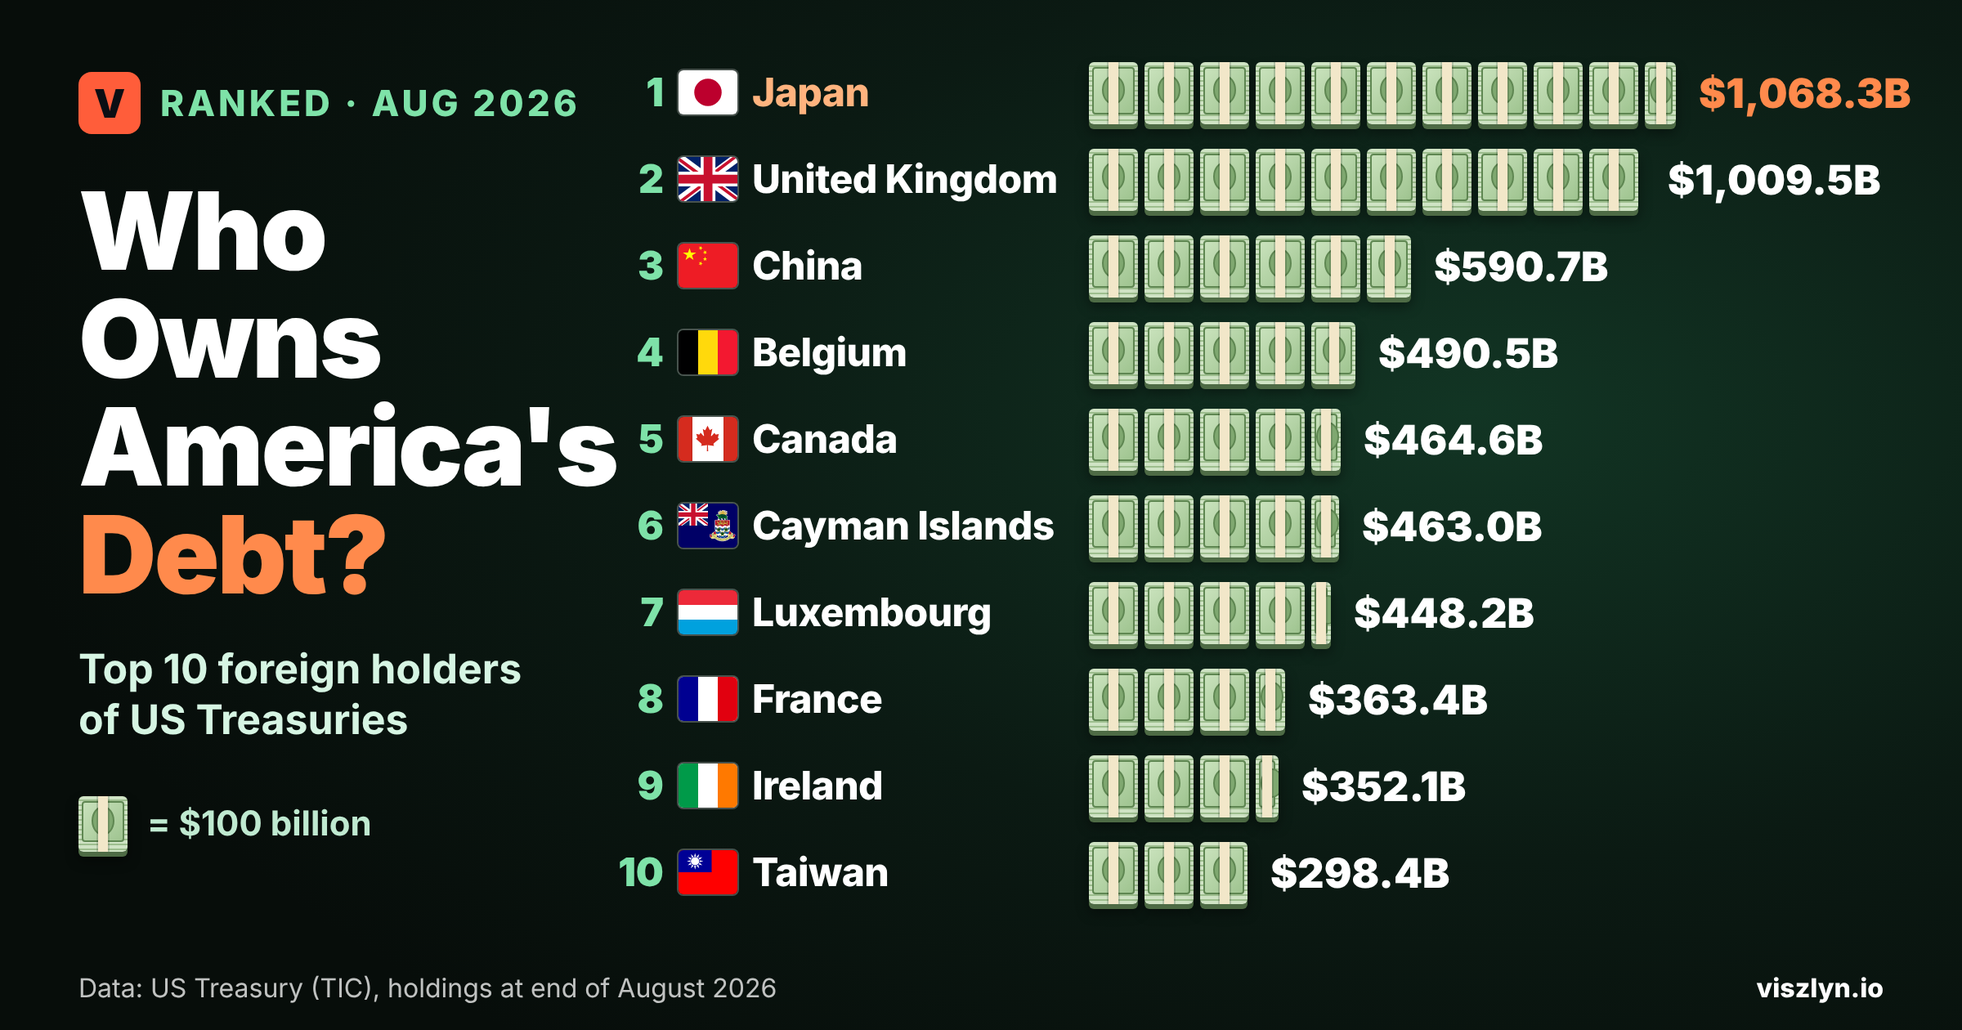
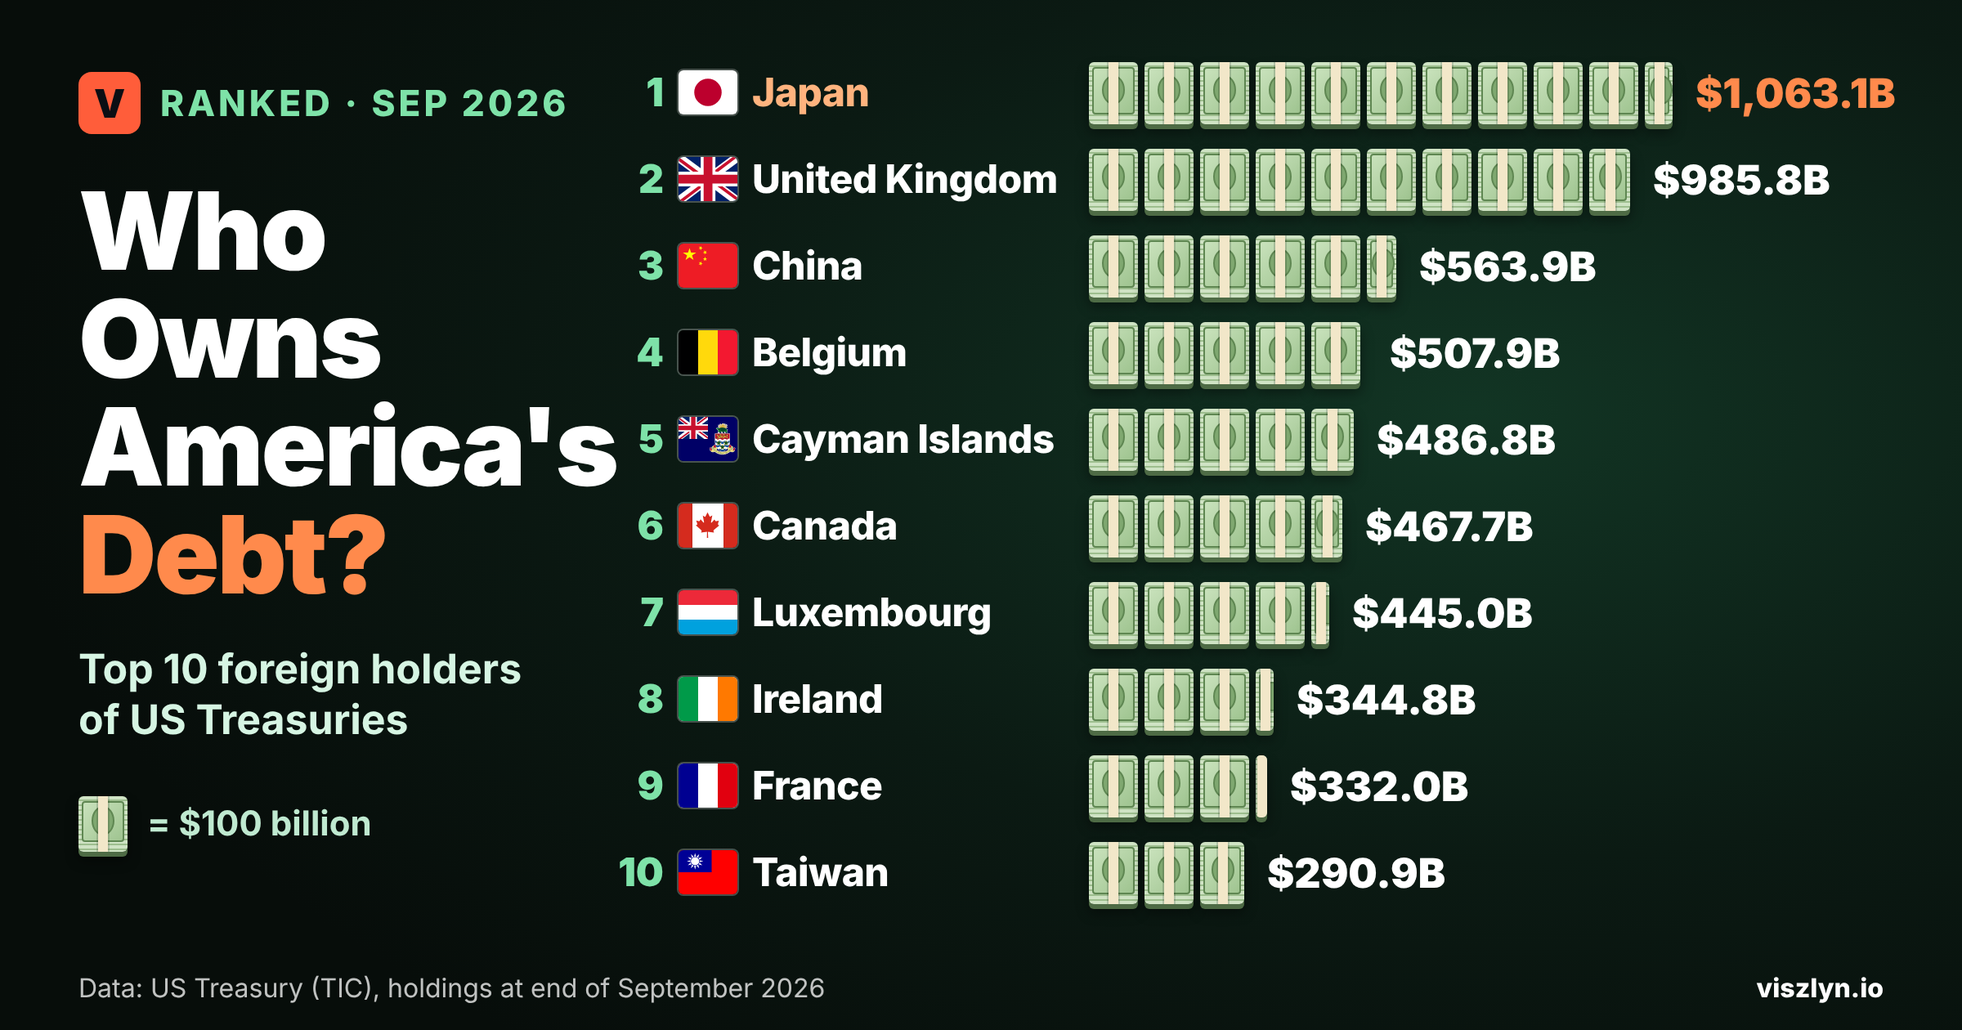
Update foreign holders of US Treasuries to September 2026 TIC data
Claude-Session: https://claude.ai/code/session_01Lx7Mnbsr2j6Zre36XCS9Kp

diff --git a/src/data/rankings/foreign-holders-us-treasuries-2026.ts b/src/data/rankings/foreign-holders-us-treasuries-2026.ts
@@ -1,126 +1,126 @@
 import { RankingArticle } from "./types";
 
-const SRC = "US Treasury, TIC Major Foreign Holders of Treasury Securities, August 2026";
+const SRC = "US Treasury, TIC Major Foreign Holders of Treasury Securities, September 2026";
 
 export const foreignHoldersUsTreasuries2026: RankingArticle = {
   slug: "foreign-holders-us-treasuries-2026",
 
   metaTitle: "Who Owns US Debt? The 10 Biggest Foreign Holders of Treasuries | Viszlyn",
   metaDescription:
-    "Japan holds $1,068.3 billion of US Treasuries, the UK $1,009.5 billion and China $590.7 billion. The 10 biggest foreign holders of US debt, ranked with Treasury data for August 2026.",
+    "Japan holds $1,063.1 billion of US Treasuries, the UK $985.8 billion and China $563.9 billion. The 10 biggest foreign holders of US debt, ranked with Treasury data for September 2026.",
   ogTitle: "Who Owns America's Debt? The 10 Biggest Foreign Holders, Ranked",
   ogDescription:
-    "Japan is still #1, the UK has passed $1 trillion, and China has fallen to $590.7 billion. The top 10 foreign holders of US Treasuries, August 2026.",
+    "Japan is still No. 1, the UK is closing in, and China has fallen to $563.9 billion. The top 10 foreign holders of US Treasuries, September 2026.",
   twitterTitle: "Who Owns America's Debt? Top 10 Foreign Holders",
   twitterDescription:
-    "Japan $1,068.3B, UK $1,009.5B, China $590.7B. The 10 biggest foreign holders of US Treasuries (US Treasury, August 2026).",
+    "Japan $1,063.1B, UK $985.8B, China $563.9B. The 10 biggest foreign holders of US Treasuries (US Treasury, September 2026).",
 
   eyebrow: "Money",
   title: "Who Owns America's Debt? The 10 Biggest Foreign Holders of US Treasuries",
-  dek: "Foreign investors held $9,331.7 billion of US Treasury securities at the end of August 2026. Japan is still the biggest holder, the United Kingdom is close behind, and China's holdings have fallen to $590.7 billion.",
+  dek: "Foreign investors held $9,241.2 billion of US Treasury securities at the end of September 2026. Japan is still the biggest holder, the United Kingdom is close behind, and China's holdings have fallen to $563.9 billion.",
   publishedDate: "November 13, 2026",
-  lastUpdated: "November 13, 2026",
-  dataPeriod: "End of August 2026, compared with August 2025 (US Treasury TIC data, released October 16, 2026)",
+  lastUpdated: "November 18, 2026",
+  dataPeriod: "End of September 2026, compared with September 2025 (US Treasury TIC data, released November 18, 2026)",
   heroImage: {
     src: "/heroes/foreign-holders-us-treasuries-2026.png",
     ogSrc: "/heroes/foreign-holders-us-treasuries-2026-og.png",
-    alt: "Stacks of $100 bills sized by each country's holdings of US Treasury securities in August 2026: Japan $1,068.3 billion, United Kingdom $1,009.5 billion, China $590.7 billion, then Belgium, Canada, Cayman Islands, Luxembourg, France, Ireland and Taiwan. Source: US Treasury.",
+    alt: "Stacks of $100 bills sized by each country's holdings of US Treasury securities in September 2026: Japan $1,063.1 billion, United Kingdom $985.8 billion, China $563.9 billion, then Belgium, Cayman Islands, Canada, Luxembourg, Ireland, France and Taiwan. Source: US Treasury.",
   },
 
   quickAnswer:
-    "Japan is the biggest foreign holder of US government debt, with $1,068.3 billion of Treasury securities at the end of August 2026. The United Kingdom is second with $1,009.5 billion, and China is third with $590.7 billion. Over the past year, Japan's holdings fell $115.6 billion and China's fell $109.0 billion, while the UK's rose $108.2 billion. Together, foreign investors held $9,331.7 billion of US Treasuries.",
+    "Japan is the biggest foreign holder of US government debt, with $1,063.1 billion of Treasury securities at the end of September 2026. The United Kingdom is second with $985.8 billion, and China is third with $563.9 billion. Over the past year, China's holdings fell $135.3 billion and Japan's fell $126.2 billion, while the UK's rose $123.3 billion. Together, foreign investors held $9,241.2 billion of US Treasuries.",
   introParagraph:
-    "When the US government borrows, it sells Treasury securities: bills, notes and bonds. Most are owned by Americans, including the Federal Reserve, but a large share is held abroad. This ranking uses the US Treasury's own count of foreign holdings, published monthly as part of its Treasury International Capital (TIC) data. The latest figures, released on October 16, 2026, show holdings at the end of August 2026. We compare each country with August 2025 to show who has been buying and who has been pulling back.",
+    "When the US government borrows, it sells Treasury securities: bills, notes and bonds. Most are owned by Americans, including the Federal Reserve, but a large share is held abroad. This ranking uses the US Treasury's own count of foreign holdings, published monthly as part of its Treasury International Capital (TIC) data. The latest figures, released on November 18, 2026, show holdings at the end of September 2026. We compare each country with September 2025 to show who has been buying and who has been pulling back.",
   calloutBox: {
     label: "Why Belgium, Luxembourg and the Cayman Islands rank so high",
     body: "The TIC data records Treasuries by the country where they are held, which is often where a bank or custodian keeps them, not necessarily where the owner lives. The Treasury cautions that securities held in overseas custody accounts may not be attributed to their actual owners. Financial centres such as the UK, Belgium, Luxembourg, the Cayman Islands and Ireland hold Treasuries on behalf of investors from many other countries, so their totals do not only reflect their own governments or residents.",
   },
 
-  chartTitle: "Holdings of US Treasury securities, end of August 2026 ($ billions)",
+  chartTitle: "Holdings of US Treasury securities, end of September 2026 ($ billions)",
   chartSource: SRC,
   chartTapNote: "Tap any country to jump to its full breakdown below.",
-  entryValueLabel: "US Treasuries held (Aug 2026):",
-  comparisonLabel: "Aug 2025",
+  entryValueLabel: "US Treasuries held (Sep 2026):",
+  comparisonLabel: "Sep 2025",
   chartItems: [
-    { rank: 1, name: "Japan", value: "$1,068.3B", raw: 1068.3, prevRank: 1 },
-    { rank: 2, name: "United Kingdom", value: "$1,009.5B", raw: 1009.5, prevRank: 2 },
-    { rank: 3, name: "China", value: "$590.7B", raw: 590.7, prevRank: 3 },
-    { rank: 4, name: "Belgium", value: "$490.5B", raw: 490.5, prevRank: 4 },
-    { rank: 5, name: "Canada", value: "$464.6B", raw: 464.6, prevRank: 5 },
-    { rank: 6, name: "Cayman Islands", value: "$463.0B", raw: 463.0, prevRank: 7 },
-    { rank: 7, name: "Luxembourg", value: "$448.2B", raw: 448.2, prevRank: 6 },
-    { rank: 8, name: "France", value: "$363.4B", raw: 363.4, prevRank: 8 },
-    { rank: 9, name: "Ireland", value: "$352.1B", raw: 352.1, prevRank: 9 },
-    { rank: 10, name: "Taiwan", value: "$298.4B", raw: 298.4, prevRank: 10 },
+    { rank: 1, name: "Japan", value: "$1,063.1B", raw: 1063.1, prevRank: 1 },
+    { rank: 2, name: "United Kingdom", value: "$985.8B", raw: 985.8, prevRank: 2 },
+    { rank: 3, name: "China", value: "$563.9B", raw: 563.9, prevRank: 3 },
+    { rank: 4, name: "Belgium", value: "$507.9B", raw: 507.9, prevRank: 5 },
+    { rank: 5, name: "Cayman Islands", value: "$486.8B", raw: 486.8, prevRank: 6 },
+    { rank: 6, name: "Canada", value: "$467.7B", raw: 467.7, prevRank: 4 },
+    { rank: 7, name: "Luxembourg", value: "$445.0B", raw: 445.0, prevRank: 7 },
+    { rank: 8, name: "Ireland", value: "$344.8B", raw: 344.8, prevRank: 9 },
+    { rank: 9, name: "France", value: "$332.0B", raw: 332.0, prevRank: 8 },
+    { rank: 10, name: "Taiwan", value: "$290.9B", raw: 290.9, prevRank: 10 },
   ],
 
   detailedEntries: [
     {
       rank: 10,
       name: "Taiwan",
-      earnings: "$298.4 billion",
+      earnings: "$290.9 billion",
       category: "Asia-Pacific",
-      blurb: "Taiwan's holdings fell $15.0 billion (4.79%) from $313.4 billion in August 2025, but it kept 10th place.",
-      standoutFact: "Taiwan holds 3.2% of all foreign-held Treasuries.",
+      blurb: "Taiwan's holdings fell $21.6 billion (6.91%) from $312.5 billion in September 2025, but it kept 10th place.",
+      standoutFact: "Taiwan is just $1.9 billion ahead of Switzerland ($289.0 billion) in 11th place.",
       sourceTag: SRC,
       wikipediaUrl: "https://en.wikipedia.org/wiki/Taiwan",
     },
     {
       rank: 9,
-      name: "Ireland",
-      earnings: "$352.1 billion",
+      name: "France",
+      earnings: "$332.0 billion",
       category: "Europe",
-      blurb: "Ireland's holdings rose $12.1 billion (3.56%) from $340.0 billion in August 2025.",
+      blurb: "France's holdings fell $43.5 billion (11.58%) from $375.5 billion in September 2025, and it slipped from 8th to 9th.",
+      standoutFact: "France's holdings fell $31.4 billion in September 2026 alone, the biggest one-month drop in the top 10.",
+      sourceTag: SRC,
+      wikipediaUrl: "https://en.wikipedia.org/wiki/France",
+    },
+    {
+      rank: 8,
+      name: "Ireland",
+      earnings: "$344.8 billion",
+      category: "Europe",
+      blurb: "Ireland's holdings rose $4.8 billion (1.41%) from $340.0 billion in September 2025, lifting it from 9th to 8th as France fell back.",
       standoutFact: "Ireland is a major base for investment funds, which is one reason a country of just over 5 million people ranks in the top 10.",
       sourceTag: SRC,
       wikipediaUrl: "https://en.wikipedia.org/wiki/Republic_of_Ireland",
     },
     {
-      rank: 8,
-      name: "France",
-      earnings: "$363.4 billion",
-      category: "Europe",
-      blurb: "France's holdings fell $25.7 billion (6.60%) from $389.1 billion in August 2025.",
-      standoutFact: "France is one of four top-10 holders whose holdings fell over the year, along with Japan, China and Taiwan.",
-      sourceTag: SRC,
-      wikipediaUrl: "https://en.wikipedia.org/wiki/France",
-    },
-    {
       rank: 7,
       name: "Luxembourg",
-      earnings: "$448.2 billion",
+      earnings: "$445.0 billion",
       category: "Europe",
-      blurb: "Luxembourg's holdings rose $37.4 billion (9.10%) from $410.8 billion in August 2025, but it slipped from 6th to 7th as the Cayman Islands grew faster.",
+      blurb: "Luxembourg's holdings rose $24.4 billion (5.80%) from $420.6 billion in September 2025, and it held 7th place.",
       standoutFact: "Luxembourg is a major centre for investment funds and custody banks, so much of what is recorded here belongs to investors elsewhere.",
       sourceTag: SRC,
       wikipediaUrl: "https://en.wikipedia.org/wiki/Luxembourg",
     },
     {
       rank: 6,
-      name: "Cayman Islands",
-      earnings: "$463.0 billion",
-      category: "Americas",
-      blurb: "The Cayman Islands' holdings rose $52.5 billion (12.79%) from $410.5 billion in August 2025, the fastest growth in the top 10, lifting it from 7th to 6th.",
-      standoutFact: "It is now just $1.6 billion behind Canada in 5th place.",
-      sourceTag: SRC,
-      wikipediaUrl: "https://en.wikipedia.org/wiki/Cayman_Islands",
-    },
-    {
-      rank: 5,
       name: "Canada",
-      earnings: "$464.6 billion",
+      earnings: "$467.7 billion",
       category: "Americas",
-      blurb: "Canada's holdings rose $20.6 billion (4.64%) from $444.0 billion in August 2025.",
-      standoutFact: "Canada added $38.3 billion in August 2026 alone.",
+      blurb: "Canada's holdings fell $8.4 billion (1.76%) from $476.1 billion in September 2025, and it dropped from 4th to 6th as Belgium and the Cayman Islands grew.",
+      standoutFact: "Canada added $3.1 billion in September 2026, but Belgium and the Cayman Islands grew much faster over the year.",
       sourceTag: SRC,
       wikipediaUrl: "https://en.wikipedia.org/wiki/Canada",
     },
     {
+      rank: 5,
+      name: "Cayman Islands",
+      earnings: "$486.8 billion",
+      category: "Americas",
+      blurb: "The Cayman Islands' holdings rose $60.0 billion (14.06%) from $426.8 billion in September 2025, lifting it from 6th to 5th.",
+      standoutFact: "It added $23.8 billion in September 2026 alone, the biggest one-month rise in the top 10.",
+      sourceTag: SRC,
+      wikipediaUrl: "https://en.wikipedia.org/wiki/Cayman_Islands",
+    },
+    {
       rank: 4,
       name: "Belgium",
-      earnings: "$490.5 billion",
+      earnings: "$507.9 billion",
       category: "Europe",
-      blurb: "Belgium's holdings rose $39.4 billion (8.73%) from $451.1 billion in August 2025.",
+      blurb: "Belgium's holdings rose $44.3 billion (9.56%) from $463.6 billion in September 2025, lifting it from 5th to 4th.",
       standoutFact: "Belgium is home to Euroclear, one of the world's largest custodians of securities, which helps explain why a country of under 12 million people ranks 4th.",
       sourceTag: SRC,
       wikipediaUrl: "https://en.wikipedia.org/wiki/Belgium",
@@ -128,54 +128,53 @@ export const foreignHoldersUsTreasuries2026: RankingArticle = {
     {
       rank: 3,
       name: "China",
-      earnings: "$590.7 billion",
+      earnings: "$563.9 billion",
       category: "Asia-Pacific",
-      blurb: "Mainland China's holdings fell $109.0 billion (15.58%) from $699.7 billion in August 2025, the biggest percentage drop in the top 10. The Treasury lists Hong Kong separately.",
-      standoutFact: "China held $1,316.7 billion at its peak in November 2013. Its August 2026 total is the lowest since August 2008.",
+      blurb: "Mainland China's holdings fell $135.3 billion (19.35%) from $699.2 billion in September 2025, the biggest drop in the top 10 in both dollars and percentage. The Treasury lists Hong Kong separately.",
+      standoutFact: "China held $1,316.7 billion at its peak in November 2013, more than twice its September 2026 total.",
       sourceTag: SRC,
       wikipediaUrl: "https://en.wikipedia.org/wiki/China",
     },
     {
       rank: 2,
       name: "United Kingdom",
-      earnings: "$1,009.5 billion",
+      earnings: "$985.8 billion",
       category: "Europe",
-      blurb: "UK holdings rose $108.2 billion (12.00%) from $901.3 billion in August 2025, the biggest dollar increase in the top 10.",
-      standoutFact: "The UK passed $1 trillion for the first time and is now $58.8 billion behind Japan. As a global financial centre, London holds Treasuries for investors from many countries.",
+      blurb: "UK holdings rose $123.3 billion (14.30%) from $862.5 billion in September 2025, the biggest increase in the top 10 in both dollars and percentage.",
+      standoutFact: "The UK is now $77.3 billion behind Japan. As a global financial centre, London holds Treasuries for investors from many countries.",
       sourceTag: SRC,
       wikipediaUrl: "https://en.wikipedia.org/wiki/United_Kingdom",
     },
     {
       rank: 1,
       name: "Japan",
-      earnings: "$1,068.3 billion",
+      earnings: "$1,063.1 billion",
       category: "Asia-Pacific",
-      blurb: "Japan's holdings fell $115.6 billion (9.76%) from $1,183.9 billion in August 2025, the biggest dollar drop in the top 10, but it is still the largest foreign holder.",
-      standoutFact: "Japan holds 11.45% of all foreign-held Treasuries. Its holdings peaked at about $1.33 trillion in November 2021.",
+      blurb: "Japan's holdings fell $126.2 billion (10.61%) from $1,189.3 billion in September 2025, but it is still the largest foreign holder.",
+      standoutFact: "Japan holds 11.50% of all foreign-held Treasuries. Its holdings peaked at about $1.33 trillion in November 2021.",
       sourceTag: SRC,
       wikipediaUrl: "https://en.wikipedia.org/wiki/Japan",
     },
   ],
 
   keyTakeaway: {
-    stat: "$9,331.7B",
-    label: "Total foreign holdings of US Treasuries, August 2026",
-    comparisonStat: "59.46%",
-    comparisonLabel: "Share held by the top 10 ($5,548.7 billion)",
-    note: "The big shift is between the top three. Japan and China together held $224.6 billion less than a year earlier, while the UK added $108.2 billion. Three financial centres, Belgium, Luxembourg and the Cayman Islands, now hold $1,401.7 billion between them, more than twice China's total.",
+    stat: "$9,241.2B",
+    label: "Total foreign holdings of US Treasuries, September 2026",
+    comparisonStat: "59.39%",
+    comparisonLabel: "Share held by the top 10 ($5,487.9 billion)",
+    note: "The big shift is between the top three. Japan and China together held $261.5 billion less than a year earlier, while the UK added $123.3 billion. Three financial centres, Belgium, the Cayman Islands and Luxembourg, now hold $1,439.7 billion between them, more than twice China's total. Overall, foreign holdings were almost unchanged from September 2025 (up $3.0 billion).",
   },
 
   sourceNote: {
-    dataPeriod: "End of August 2026, compared with end of August 2025",
-    lastUpdated: "November 13, 2026",
+    dataPeriod: "End of September 2026, compared with end of September 2025",
+    lastUpdated: "November 18, 2026",
     sources:
-      "US Department of the Treasury, Treasury International Capital (TIC) System, \"Major Foreign Holders of Treasury Securities\" (holdings at end of period), released October 16, 2026, with historical series.",
+      "US Department of the Treasury, Treasury International Capital (TIC) System, \"Major Foreign Holders of Treasury Securities\" (Table 5, holdings at end of period), released November 18, 2026, with historical series.",
     methodology:
-      "Holdings are in billions of US dollars as published by the Treasury, without rounding. August 2025 values and ranks are from the same Treasury table, which can revise earlier months. Changes, percentage changes, shares of the foreign total and combined totals are calculated by Viszlyn from the Treasury figures. Countries are attributed by where the securities are held, which may be a custodial or financial centre rather than the owner's home country; the Treasury cautions that securities held in overseas custody accounts may not be attributed to their actual owners. \"China\" is mainland China; the Treasury lists Hong Kong separately. The next TIC release, with September 2026 data, is scheduled for November 18, 2026.",
+      "Holdings are in billions of US dollars as published by the Treasury, without rounding. September 2025 values and ranks are from the same Treasury table, which can revise earlier months. Changes, percentage changes, shares of the foreign total and combined totals are calculated by Viszlyn from the Treasury figures. Countries are attributed by where the securities are held, which may be a custodial or financial centre rather than the owner's home country; the Treasury cautions that securities held in overseas custody accounts may not be attributed to their actual owners. \"China\" is mainland China; the Treasury lists Hong Kong separately. The Treasury publishes new figures monthly, and we update this ranking with each release.",
     sourceLinks: [
       { label: "US Treasury: Major Foreign Holders of Treasury Securities (Table 5)", href: "https://ticdata.treasury.gov/resource-center/data-chart-center/tic/Documents/slt_table5.html" },
       { label: "US Treasury: Major Foreign Holders, historical series", href: "https://ticdata.treasury.gov/resource-center/data-chart-center/tic/Documents/mfhhis01.html" },
-      { label: "US Treasury: Treasury International Capital Data for August 2026 (press release)", href: "https://home.treasury.gov/news/press-releases/sb0662" },
     ],
   },
 
@@ -183,17 +182,17 @@ export const foreignHoldersUsTreasuries2026: RankingArticle = {
     {
       question: "Which country owns the most US debt?",
       answer:
-        "Japan, with $1,068.3 billion of US Treasury securities at the end of August 2026, according to the US Treasury. The United Kingdom was second with $1,009.5 billion and China third with $590.7 billion.",
+        "Japan, with $1,063.1 billion of US Treasury securities at the end of September 2026, according to the US Treasury. The United Kingdom was second with $985.8 billion and China third with $563.9 billion.",
     },
     {
       question: "How much US debt does China own?",
       answer:
-        "Mainland China held $590.7 billion of US Treasuries at the end of August 2026, down $109.0 billion from a year earlier and well below its peak of $1,316.7 billion in November 2013. Hong Kong is counted separately.",
+        "Mainland China held $563.9 billion of US Treasuries at the end of September 2026, down $135.3 billion from a year earlier and well below its peak of $1,316.7 billion in November 2013. Hong Kong is counted separately.",
     },
     {
       question: "How much US debt do foreign countries hold in total?",
       answer:
-        "Foreign investors held $9,331.7 billion of US Treasury securities at the end of August 2026. The top 10 holders accounted for $5,548.7 billion of that, or 59.46%.",
+        "Foreign investors held $9,241.2 billion of US Treasury securities at the end of September 2026. The top 10 holders accounted for $5,487.9 billion of that, or 59.39%.",
     },
     {
       question: "Why do small places like the Cayman Islands and Luxembourg hold so much US debt?",
@@ -203,7 +202,7 @@ export const foreignHoldersUsTreasuries2026: RankingArticle = {
     {
       question: "How often is this data updated?",
       answer:
-        "Monthly. The August 2026 figures were released on October 16, 2026, and the next release, with September 2026 data, is scheduled for November 18, 2026.",
+        "Monthly. The September 2026 figures were released on November 18, 2026. We update this ranking when each new month is published.",
     },
   ],
 
